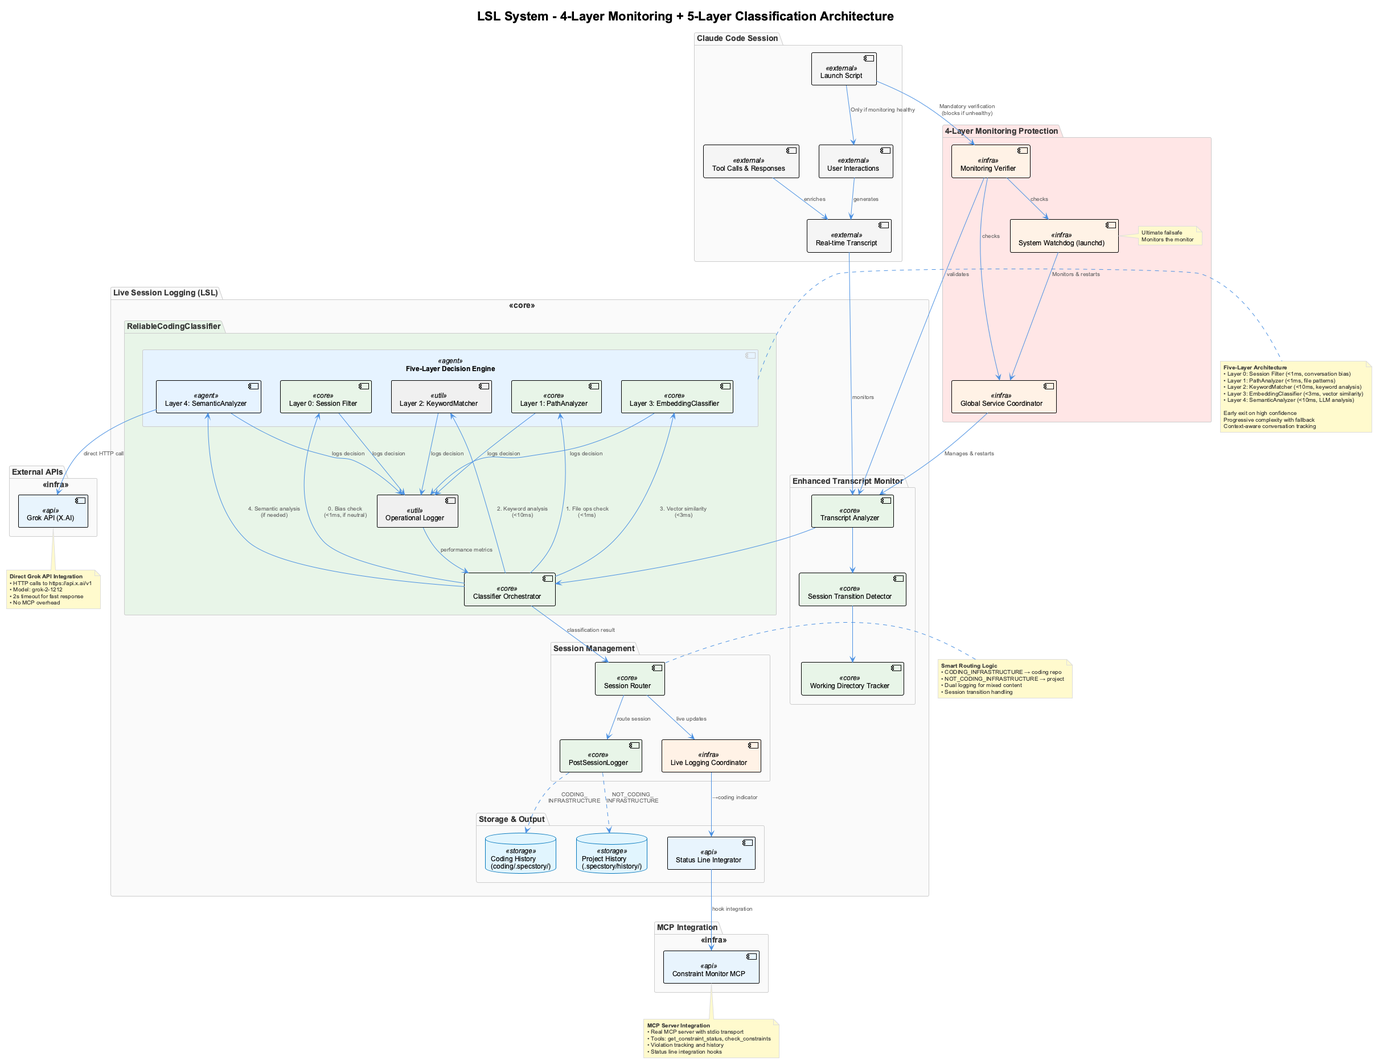
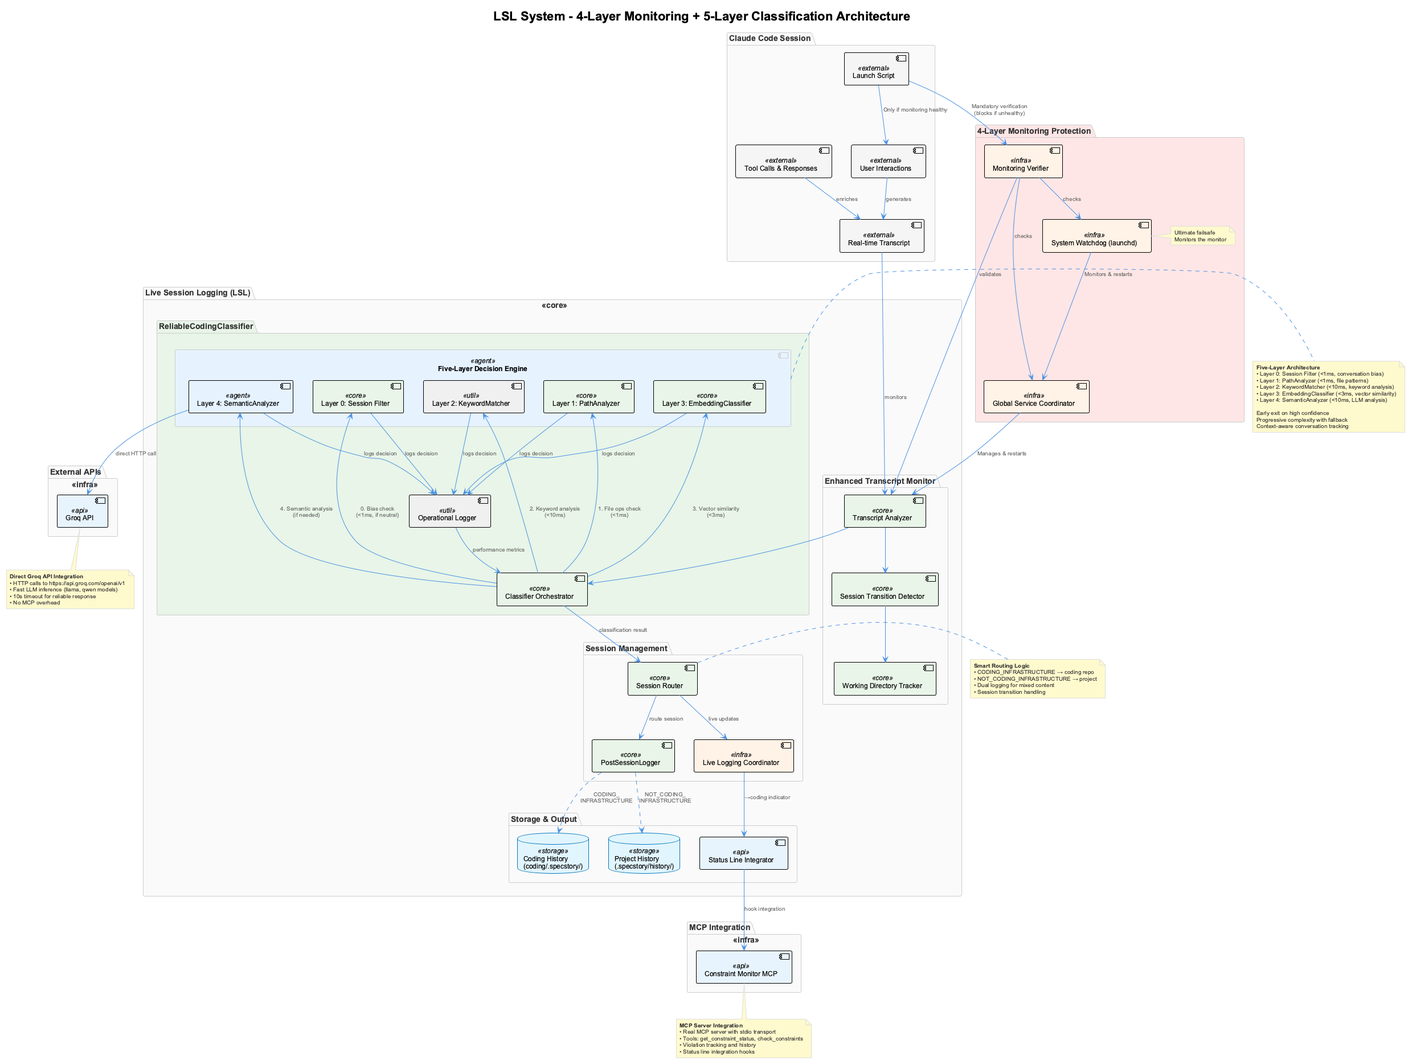
docs: updated LSL docs

diff --git a/.specstory/history/2025-10-29_1700-1800_g9b30a.md b/.specstory/history/2025-10-29_1700-1800_g9b30a.md
@@ -1,0 +1,281 @@
+# WORK SESSION (1700-1800)
+
+**Generated:** 2025-10-29T16:19:58.529Z
+**Work Period:** 1700-1800
+**Focus:** Live session logging
+**Duration:** ~60 minutes
+
+---
+
+## Session Overview
+
+This session captures real-time tool interactions and exchanges.
+
+---
+
+## Key Activities
+
+### Text Exchange - 2025-10-29 16:19:35 UTC [17:19:35 CEST]
+
+**User Message:** docs/images/lsl-architecture.png check this diagram using the associated puml and serena to understand it - are we really using Grok API (X.AI)... or is it Groq based modles that we use instead? Correct where necessary. Then derive a corresponding presentation version of this diagram with thicker lines, reduced amount of text and focussing on the essential details.. .presentations are mostly landscape (PPT) --> aim for a more horizontal layout without making it too wide (eg. in presentation mode...
+
+**Type:** Text-only exchange (no tool calls)
+
+---
+
+### Text Exchange - 2025-10-29 16:19:35 UTC [17:19:35 CEST]
+
+**User Message:** docs/images/lsl-architecture.png check this diagram using the associated puml and serena to understand it - are we really using Grok API (X.AI)... or is it Groq based modles that we use instead? Correct where necessary. Then derive a corresponding presentation version of this diagram with thicker lines, reduced amount of text and focussing on the essential details.. .presentations are mostly landscape (PPT) --> aim for a more horizontal layout without making it too wide (eg. in presentation mode...
+
+**Type:** Text-only exchange (no tool calls)
+
+---
+
+### Text Exchange - 2025-10-29 16:19:35 UTC [17:19:35 CEST]
+
+**User Message:** docs/images/lsl-architecture.png check this diagram using the associated puml and serena to understand it - are we really using Grok API (X.AI)... or is it Groq based modles that we use instead? Correct where necessary. Then derive a corresponding presentation version of this diagram with thicker lines, reduced amount of text and focussing on the essential details.. .presentations are mostly landscape (PPT) --> aim for a more horizontal layout without making it too wide (eg. in presentation mode...
+
+**Type:** Text-only exchange (no tool calls)
+
+---
+
+### Text Exchange - 2025-10-29 16:19:35 UTC [17:19:35 CEST]
+
+**User Message:** docs/images/lsl-architecture.png check this diagram using the associated puml and serena to understand it - are we really using Grok API (X.AI)... or is it Groq based modles that we use instead? Correct where necessary. Then derive a corresponding presentation version of this diagram with thicker lines, reduced amount of text and focussing on the essential details.. .presentations are mostly landscape (PPT) --> aim for a more horizontal layout without making it too wide (eg. in presentation mode...
+
+**Type:** Text-only exchange (no tool calls)
+
+---
+
+### Text Exchange - 2025-10-29 16:19:35 UTC [17:19:35 CEST]
+
+**User Message:** docs/images/lsl-architecture.png check this diagram using the associated puml and serena to understand it - are we really using Grok API (X.AI)... or is it Groq based modles that we use instead? Correct where necessary. Then derive a corresponding presentation version of this diagram with thicker lines, reduced amount of text and focussing on the essential details.. .presentations are mostly landscape (PPT) --> aim for a more horizontal layout without making it too wide (eg. in presentation mode...
+
+**Type:** Text-only exchange (no tool calls)
+
+---
+
+### Text Exchange - 2025-10-29 16:19:35 UTC [17:19:35 CEST]
+
+**User Message:** docs/images/lsl-architecture.png check this diagram using the associated puml and serena to understand it - are we really using Grok API (X.AI)... or is it Groq based modles that we use instead? Correct where necessary. Then derive a corresponding presentation version of this diagram with thicker lines, reduced amount of text and focussing on the essential details.. .presentations are mostly landscape (PPT) --> aim for a more horizontal layout without making it too wide (eg. in presentation mode...
+
+**Type:** Text-only exchange (no tool calls)
+
+---
+
+### Text Exchange - 2025-10-29 16:19:35 UTC [17:19:35 CEST]
+
+**User Message:** docs/images/lsl-architecture.png check this diagram using the associated puml and serena to understand it - are we really using Grok API (X.AI)... or is it Groq based modles that we use instead? Correct where necessary. Then derive a corresponding presentation version of this diagram with thicker lines, reduced amount of text and focussing on the essential details.. .presentations are mostly landscape (PPT) --> aim for a more horizontal layout without making it too wide (eg. in presentation mode...
+
+**Type:** Text-only exchange (no tool calls)
+
+---
+
+### Text Exchange - 2025-10-29 16:19:35 UTC [17:19:35 CEST]
+
+**User Message:** docs/images/lsl-architecture.png check this diagram using the associated puml and serena to understand it - are we really using Grok API (X.AI)... or is it Groq based modles that we use instead? Correct where necessary. Then derive a corresponding presentation version of this diagram with thicker lines, reduced amount of text and focussing on the essential details.. .presentations are mostly landscape (PPT) --> aim for a more horizontal layout without making it too wide (eg. in presentation mode...
+
+**Type:** Text-only exchange (no tool calls)
+
+---
+
+### Text Exchange - 2025-10-29 16:19:35 UTC [17:19:35 CEST]
+
+**User Message:** docs/images/lsl-architecture.png check this diagram using the associated puml and serena to understand it - are we really using Grok API (X.AI)... or is it Groq based modles that we use instead? Correct where necessary. Then derive a corresponding presentation version of this diagram with thicker lines, reduced amount of text and focussing on the essential details.. .presentations are mostly landscape (PPT) --> aim for a more horizontal layout without making it too wide (eg. in presentation mode...
+
+**Type:** Text-only exchange (no tool calls)
+
+---
+
+### Text Exchange - 2025-10-29 16:19:35 UTC [17:19:35 CEST]
+
+**User Message:** docs/images/lsl-architecture.png check this diagram using the associated puml and serena to understand it - are we really using Grok API (X.AI)... or is it Groq based modles that we use instead? Correct where necessary. Then derive a corresponding presentation version of this diagram with thicker lines, reduced amount of text and focussing on the essential details.. .presentations are mostly landscape (PPT) --> aim for a more horizontal layout without making it too wide (eg. in presentation mode...
+
+**Type:** Text-only exchange (no tool calls)
+
+---
+
+### Text Exchange - 2025-10-29 16:19:35 UTC [17:19:35 CEST]
+
+**User Message:** docs/images/lsl-architecture.png check this diagram using the associated puml and serena to understand it - are we really using Grok API (X.AI)... or is it Groq based modles that we use instead? Correct where necessary. Then derive a corresponding presentation version of this diagram with thicker lines, reduced amount of text and focussing on the essential details.. .presentations are mostly landscape (PPT) --> aim for a more horizontal layout without making it too wide (eg. in presentation mode...
+
+**Type:** Text-only exchange (no tool calls)
+
+---
+
+### Text Exchange - 2025-10-29 16:19:35 UTC [17:19:35 CEST]
+
+**User Message:** docs/images/lsl-architecture.png check this diagram using the associated puml and serena to understand it - are we really using Grok API (X.AI)... or is it Groq based modles that we use instead? Correct where necessary. Then derive a corresponding presentation version of this diagram with thicker lines, reduced amount of text and focussing on the essential details.. .presentations are mostly landscape (PPT) --> aim for a more horizontal layout without making it too wide (eg. in presentation mode...
+
+**Type:** Text-only exchange (no tool calls)
+
+---
+
+### Text Exchange - 2025-10-29 16:19:35 UTC [17:19:35 CEST]
+
+**User Message:** docs/images/lsl-architecture.png check this diagram using the associated puml and serena to understand it - are we really using Grok API (X.AI)... or is it Groq based modles that we use instead? Correct where necessary. Then derive a corresponding presentation version of this diagram with thicker lines, reduced amount of text and focussing on the essential details.. .presentations are mostly landscape (PPT) --> aim for a more horizontal layout without making it too wide (eg. in presentation mode...
+
+**Type:** Text-only exchange (no tool calls)
+
+---
+
+### Text Exchange - 2025-10-29 16:19:35 UTC [17:19:35 CEST]
+
+**User Message:** docs/images/lsl-architecture.png check this diagram using the associated puml and serena to understand it - are we really using Grok API (X.AI)... or is it Groq based modles that we use instead? Correct where necessary. Then derive a corresponding presentation version of this diagram with thicker lines, reduced amount of text and focussing on the essential details.. .presentations are mostly landscape (PPT) --> aim for a more horizontal layout without making it too wide (eg. in presentation mode...
+
+**Type:** Text-only exchange (no tool calls)
+
+---
+
+### Text Exchange - 2025-10-29 16:19:35 UTC [17:19:35 CEST]
+
+**User Message:** docs/images/lsl-architecture.png check this diagram using the associated puml and serena to understand it - are we really using Grok API (X.AI)... or is it Groq based modles that we use instead? Correct where necessary. Then derive a corresponding presentation version of this diagram with thicker lines, reduced amount of text and focussing on the essential details.. .presentations are mostly landscape (PPT) --> aim for a more horizontal layout without making it too wide (eg. in presentation mode...
+
+**Type:** Text-only exchange (no tool calls)
+
+---
+
+### Text Exchange - 2025-10-29 16:19:35 UTC [17:19:35 CEST]
+
+**User Message:** docs/images/lsl-architecture.png check this diagram using the associated puml and serena to understand it - are we really using Grok API (X.AI)... or is it Groq based modles that we use instead? Correct where necessary. Then derive a corresponding presentation version of this diagram with thicker lines, reduced amount of text and focussing on the essential details.. .presentations are mostly landscape (PPT) --> aim for a more horizontal layout without making it too wide (eg. in presentation mode...
+
+**Type:** Text-only exchange (no tool calls)
+
+---
+
+### Text Exchange - 2025-10-29 16:58:06 UTC [17:58:06 CEST]
+
+**User Message:** '/Users/<USER_ID_REDACTED>/Agentic/coding/docs/core-systems/live-session-logging.md' - verify from the codebase if we are actually using this model: sentence-transformers/all-MiniLM-L6-v2 (384-dimensional embeddings) - if not, correct. Are we using xenova/transformers? Also check if the PathAnalyzer is not more complex now as it also checks for artifacts in the local repo (pointing to "local" rather than "foreign"). And is the Layer 4 using the MCP Semantic Analysis or something different (proba...
+
+**Type:** Text-only exchange (no tool calls)
+
+---
+
+### Text Exchange - 2025-10-29 16:58:06 UTC [17:58:06 CEST]
+
+**User Message:** '/Users/<USER_ID_REDACTED>/Agentic/coding/docs/core-systems/live-session-logging.md' - verify from the codebase if we are actually using this model: sentence-transformers/all-MiniLM-L6-v2 (384-dimensional embeddings) - if not, correct. Are we using xenova/transformers? Also check if the PathAnalyzer is not more complex now as it also checks for artifacts in the local repo (pointing to "local" rather than "foreign"). And is the Layer 4 using the MCP Semantic Analysis or something different (proba...
+
+**Type:** Text-only exchange (no tool calls)
+
+---
+
+### Text Exchange - 2025-10-29 16:58:06 UTC [17:58:06 CEST]
+
+**User Message:** '/Users/<USER_ID_REDACTED>/Agentic/coding/docs/core-systems/live-session-logging.md' - verify from the codebase if we are actually using this model: sentence-transformers/all-MiniLM-L6-v2 (384-dimensional embeddings) - if not, correct. Are we using xenova/transformers? Also check if the PathAnalyzer is not more complex now as it also checks for artifacts in the local repo (pointing to "local" rather than "foreign"). And is the Layer 4 using the MCP Semantic Analysis or something different (proba...
+
+**Type:** Text-only exchange (no tool calls)
+
+---
+
+### Text Exchange - 2025-10-29 16:58:06 UTC [17:58:06 CEST]
+
+**User Message:** '/Users/<USER_ID_REDACTED>/Agentic/coding/docs/core-systems/live-session-logging.md' - verify from the codebase if we are actually using this model: sentence-transformers/all-MiniLM-L6-v2 (384-dimensional embeddings) - if not, correct. Are we using xenova/transformers? Also check if the PathAnalyzer is not more complex now as it also checks for artifacts in the local repo (pointing to "local" rather than "foreign"). And is the Layer 4 using the MCP Semantic Analysis or something different (proba...
+
+**Type:** Text-only exchange (no tool calls)
+
+---
+
+### Text Exchange - 2025-10-29 16:58:06 UTC [17:58:06 CEST]
+
+**User Message:** '/Users/<USER_ID_REDACTED>/Agentic/coding/docs/core-systems/live-session-logging.md' - verify from the codebase if we are actually using this model: sentence-transformers/all-MiniLM-L6-v2 (384-dimensional embeddings) - if not, correct. Are we using xenova/transformers? Also check if the PathAnalyzer is not more complex now as it also checks for artifacts in the local repo (pointing to "local" rather than "foreign"). And is the Layer 4 using the MCP Semantic Analysis or something different (proba...
+
+**Type:** Text-only exchange (no tool calls)
+
+---
+
+### Text Exchange - 2025-10-29 16:58:06 UTC [17:58:06 CEST]
+
+**User Message:** '/Users/<USER_ID_REDACTED>/Agentic/coding/docs/core-systems/live-session-logging.md' - verify from the codebase if we are actually using this model: sentence-transformers/all-MiniLM-L6-v2 (384-dimensional embeddings) - if not, correct. Are we using xenova/transformers? Also check if the PathAnalyzer is not more complex now as it also checks for artifacts in the local repo (pointing to "local" rather than "foreign"). And is the Layer 4 using the MCP Semantic Analysis or something different (proba...
+
+**Type:** Text-only exchange (no tool calls)
+
+---
+
+### Text Exchange - 2025-10-29 16:58:06 UTC [17:58:06 CEST]
+
+**User Message:** '/Users/<USER_ID_REDACTED>/Agentic/coding/docs/core-systems/live-session-logging.md' - verify from the codebase if we are actually using this model: sentence-transformers/all-MiniLM-L6-v2 (384-dimensional embeddings) - if not, correct. Are we using xenova/transformers? Also check if the PathAnalyzer is not more complex now as it also checks for artifacts in the local repo (pointing to "local" rather than "foreign"). And is the Layer 4 using the MCP Semantic Analysis or something different (proba...
+
+**Type:** Text-only exchange (no tool calls)
+
+---
+
+### Text Exchange - 2025-10-29 16:58:06 UTC [17:58:06 CEST]
+
+**User Message:** '/Users/<USER_ID_REDACTED>/Agentic/coding/docs/core-systems/live-session-logging.md' - verify from the codebase if we are actually using this model: sentence-transformers/all-MiniLM-L6-v2 (384-dimensional embeddings) - if not, correct. Are we using xenova/transformers? Also check if the PathAnalyzer is not more complex now as it also checks for artifacts in the local repo (pointing to "local" rather than "foreign"). And is the Layer 4 using the MCP Semantic Analysis or something different (proba...
+
+**Type:** Text-only exchange (no tool calls)
+
+---
+
+### Text Exchange - 2025-10-29 16:58:06 UTC [17:58:06 CEST]
+
+**User Message:** '/Users/<USER_ID_REDACTED>/Agentic/coding/docs/core-systems/live-session-logging.md' - verify from the codebase if we are actually using this model: sentence-transformers/all-MiniLM-L6-v2 (384-dimensional embeddings) - if not, correct. Are we using xenova/transformers? Also check if the PathAnalyzer is not more complex now as it also checks for artifacts in the local repo (pointing to "local" rather than "foreign"). And is the Layer 4 using the MCP Semantic Analysis or something different (proba...
+
+**Type:** Text-only exchange (no tool calls)
+
+---
+
+### Text Exchange - 2025-10-29 16:58:06 UTC [17:58:06 CEST]
+
+**User Message:** '/Users/<USER_ID_REDACTED>/Agentic/coding/docs/core-systems/live-session-logging.md' - verify from the codebase if we are actually using this model: sentence-transformers/all-MiniLM-L6-v2 (384-dimensional embeddings) - if not, correct. Are we using xenova/transformers? Also check if the PathAnalyzer is not more complex now as it also checks for artifacts in the local repo (pointing to "local" rather than "foreign"). And is the Layer 4 using the MCP Semantic Analysis or something different (proba...
+
+**Type:** Text-only exchange (no tool calls)
+
+---
+
+### Text Exchange - 2025-10-29 16:58:06 UTC [17:58:06 CEST]
+
+**User Message:** '/Users/<USER_ID_REDACTED>/Agentic/coding/docs/core-systems/live-session-logging.md' - verify from the codebase if we are actually using this model: sentence-transformers/all-MiniLM-L6-v2 (384-dimensional embeddings) - if not, correct. Are we using xenova/transformers? Also check if the PathAnalyzer is not more complex now as it also checks for artifacts in the local repo (pointing to "local" rather than "foreign"). And is the Layer 4 using the MCP Semantic Analysis or something different (proba...
+
+**Type:** Text-only exchange (no tool calls)
+
+---
+
+### Text Exchange - 2025-10-29 16:58:06 UTC [17:58:06 CEST]
+
+**User Message:** '/Users/<USER_ID_REDACTED>/Agentic/coding/docs/core-systems/live-session-logging.md' - verify from the codebase if we are actually using this model: sentence-transformers/all-MiniLM-L6-v2 (384-dimensional embeddings) - if not, correct. Are we using xenova/transformers? Also check if the PathAnalyzer is not more complex now as it also checks for artifacts in the local repo (pointing to "local" rather than "foreign"). And is the Layer 4 using the MCP Semantic Analysis or something different (proba...
+
+**Type:** Text-only exchange (no tool calls)
+
+---
+
+### Text Exchange - 2025-10-29 16:58:06 UTC [17:58:06 CEST]
+
+**User Message:** '/Users/<USER_ID_REDACTED>/Agentic/coding/docs/core-systems/live-session-logging.md' - verify from the codebase if we are actually using this model: sentence-transformers/all-MiniLM-L6-v2 (384-dimensional embeddings) - if not, correct. Are we using xenova/transformers? Also check if the PathAnalyzer is not more complex now as it also checks for artifacts in the local repo (pointing to "local" rather than "foreign"). And is the Layer 4 using the MCP Semantic Analysis or something different (proba...
+
+**Type:** Text-only exchange (no tool calls)
+
+---
+
+### Text Exchange - 2025-10-29 16:58:06 UTC [17:58:06 CEST]
+
+**User Message:** '/Users/<USER_ID_REDACTED>/Agentic/coding/docs/core-systems/live-session-logging.md' - verify from the codebase if we are actually using this model: sentence-transformers/all-MiniLM-L6-v2 (384-dimensional embeddings) - if not, correct. Are we using xenova/transformers? Also check if the PathAnalyzer is not more complex now as it also checks for artifacts in the local repo (pointing to "local" rather than "foreign"). And is the Layer 4 using the MCP Semantic Analysis or something different (proba...
+
+**Type:** Text-only exchange (no tool calls)
+
+---
+
+### Text Exchange - 2025-10-29 16:58:06 UTC [17:58:06 CEST]
+
+**User Message:** '/Users/<USER_ID_REDACTED>/Agentic/coding/docs/core-systems/live-session-logging.md' - verify from the codebase if we are actually using this model: sentence-transformers/all-MiniLM-L6-v2 (384-dimensional embeddings) - if not, correct. Are we using xenova/transformers? Also check if the PathAnalyzer is not more complex now as it also checks for artifacts in the local repo (pointing to "local" rather than "foreign"). And is the Layer 4 using the MCP Semantic Analysis or something different (proba...
+
+**Type:** Text-only exchange (no tool calls)
+
+---
+
+### Text Exchange - 2025-10-29 16:58:06 UTC [17:58:06 CEST]
+
+**User Message:** '/Users/<USER_ID_REDACTED>/Agentic/coding/docs/core-systems/live-session-logging.md' - verify from the codebase if we are actually using this model: sentence-transformers/all-MiniLM-L6-v2 (384-dimensional embeddings) - if not, correct. Are we using xenova/transformers? Also check if the PathAnalyzer is not more complex now as it also checks for artifacts in the local repo (pointing to "local" rather than "foreign"). And is the Layer 4 using the MCP Semantic Analysis or something different (proba...
+
+**Type:** Text-only exchange (no tool calls)
+
+---
+
+### Text Exchange - 2025-10-29 16:58:06 UTC [17:58:06 CEST]
+
+**User Message:** '/Users/<USER_ID_REDACTED>/Agentic/coding/docs/core-systems/live-session-logging.md' - verify from the codebase if we are actually using this model: sentence-transformers/all-MiniLM-L6-v2 (384-dimensional embeddings) - if not, correct. Are we using xenova/transformers? Also check if the PathAnalyzer is not more complex now as it also checks for artifacts in the local repo (pointing to "local" rather than "foreign"). And is the Layer 4 using the MCP Semantic Analysis or something different (proba...
+
+**Type:** Text-only exchange (no tool calls)
+
+---
+

diff --git a/docs/core-systems/live-session-logging.md b/docs/core-systems/live-session-logging.md
@@ -211,10 +211,15 @@ Five-layer classification system that accurately determines content routing with
    - **Benefits**: Handles follow-up prompts ("continue", "looks good") by following conversation momentum
    - **Configuration**: `config/live-logging-config.json` → `session_filter` section
 
-1. **PathAnalyzer (Layer 1)**: File operation pattern matching
+1. **PathAnalyzer (Layer 1)**: File operation pattern matching with artifact detection
+   - **Location**: `src/live-logging/PathAnalyzer.js`
    - Analyzes file paths and operations for direct coding infrastructure detection
+   - **Two-step artifact checking**:
+     - *Step (a)*: For relative paths, checks if artifact exists locally (marks as LOCAL)
+     - *Step (b)*: If not found locally, searches by filename in coding repo (marks as FOREIGN)
+   - Prevents false positives from ambiguous paths like `docs/images/viewer.png`
    - Fastest decision path with <1ms response time
-   - High accuracy for known file patterns and operations
+   - High accuracy for known file patterns and operations with path resolution
 
 2. **KeywordMatcher (Layer 2)**: Fast keyword-based classification
    - Uses intelligent keyword analysis for coding-related term detection
@@ -222,22 +227,29 @@ Five-layer classification system that accurately determines content routing with
    - <10ms response time for obvious cases
 
 3. **EmbeddingClassifier (Layer 3)**: Semantic vector similarity search
+   - **Location**: `src/knowledge-management/EmbeddingGenerator.js`
    - Native JavaScript implementation using Transformers.js (@xenova/transformers)
-   - Model: sentence-transformers/all-MiniLM-L6-v2 (384-dimensional embeddings)
+   - **Model**: `Xenova/all-MiniLM-L6-v2` (sentence-transformers/all-MiniLM-L6-v2)
+   - **Vector size**: 384-dimensional embeddings
    - Qdrant vector database with HNSW indexing for fast similarity search
    - Searches against indexed coding infrastructure repository (183 files)
    - Similarity threshold: 0.65 (configurable)
    - ~50ms response time (10-100x faster than Python subprocess spawning)
    - Returns top 5 similar documents with confidence scores
 
-4. **SemanticAnalyzer (Layer 4)**: LLM-powered deep understanding
+4. **SemanticAnalyzer (Layer 4)**: LLM-powered deep understanding via direct API calls
+   - **Location**: `src/live-logging/SemanticAnalyzer.js`
+   - **API**: Direct HTTP calls to **Groq API** (https://api.groq.com/openai/v1)
+   - **Model**: Fast inference models (llama-3.3-70b, qwen-2.5)
+   - **Not using MCP**: Direct fetch calls for minimal overhead and fastest response
    - Used when embedding classification is inconclusive (isCoding: null)
    - Provides nuanced classification for complex edge cases
    - <10ms response time with performance monitoring and caching
+   - Temperature: 0.1 for consistent classification decisions
 
 **Additional Components**:
 - **ConversationBiasTracker**: Maintains sliding window of recent classifications for context-aware decisions
-- **FastEmbeddingGenerator**: Native JavaScript embedding generation using Transformers.js
+- **EmbeddingGenerator**: Dual-vector embedding generation (384-dim local via Transformers.js, 1536-dim remote via OpenAI)
 - **RepositoryIndexer**: Automatically indexes coding repository content into Qdrant vector database
 - **ChangeDetector**: Monitors repository changes and triggers reindexing when needed
 - **PerformanceMonitor**: Enhanced monitoring with embedding-specific metrics
